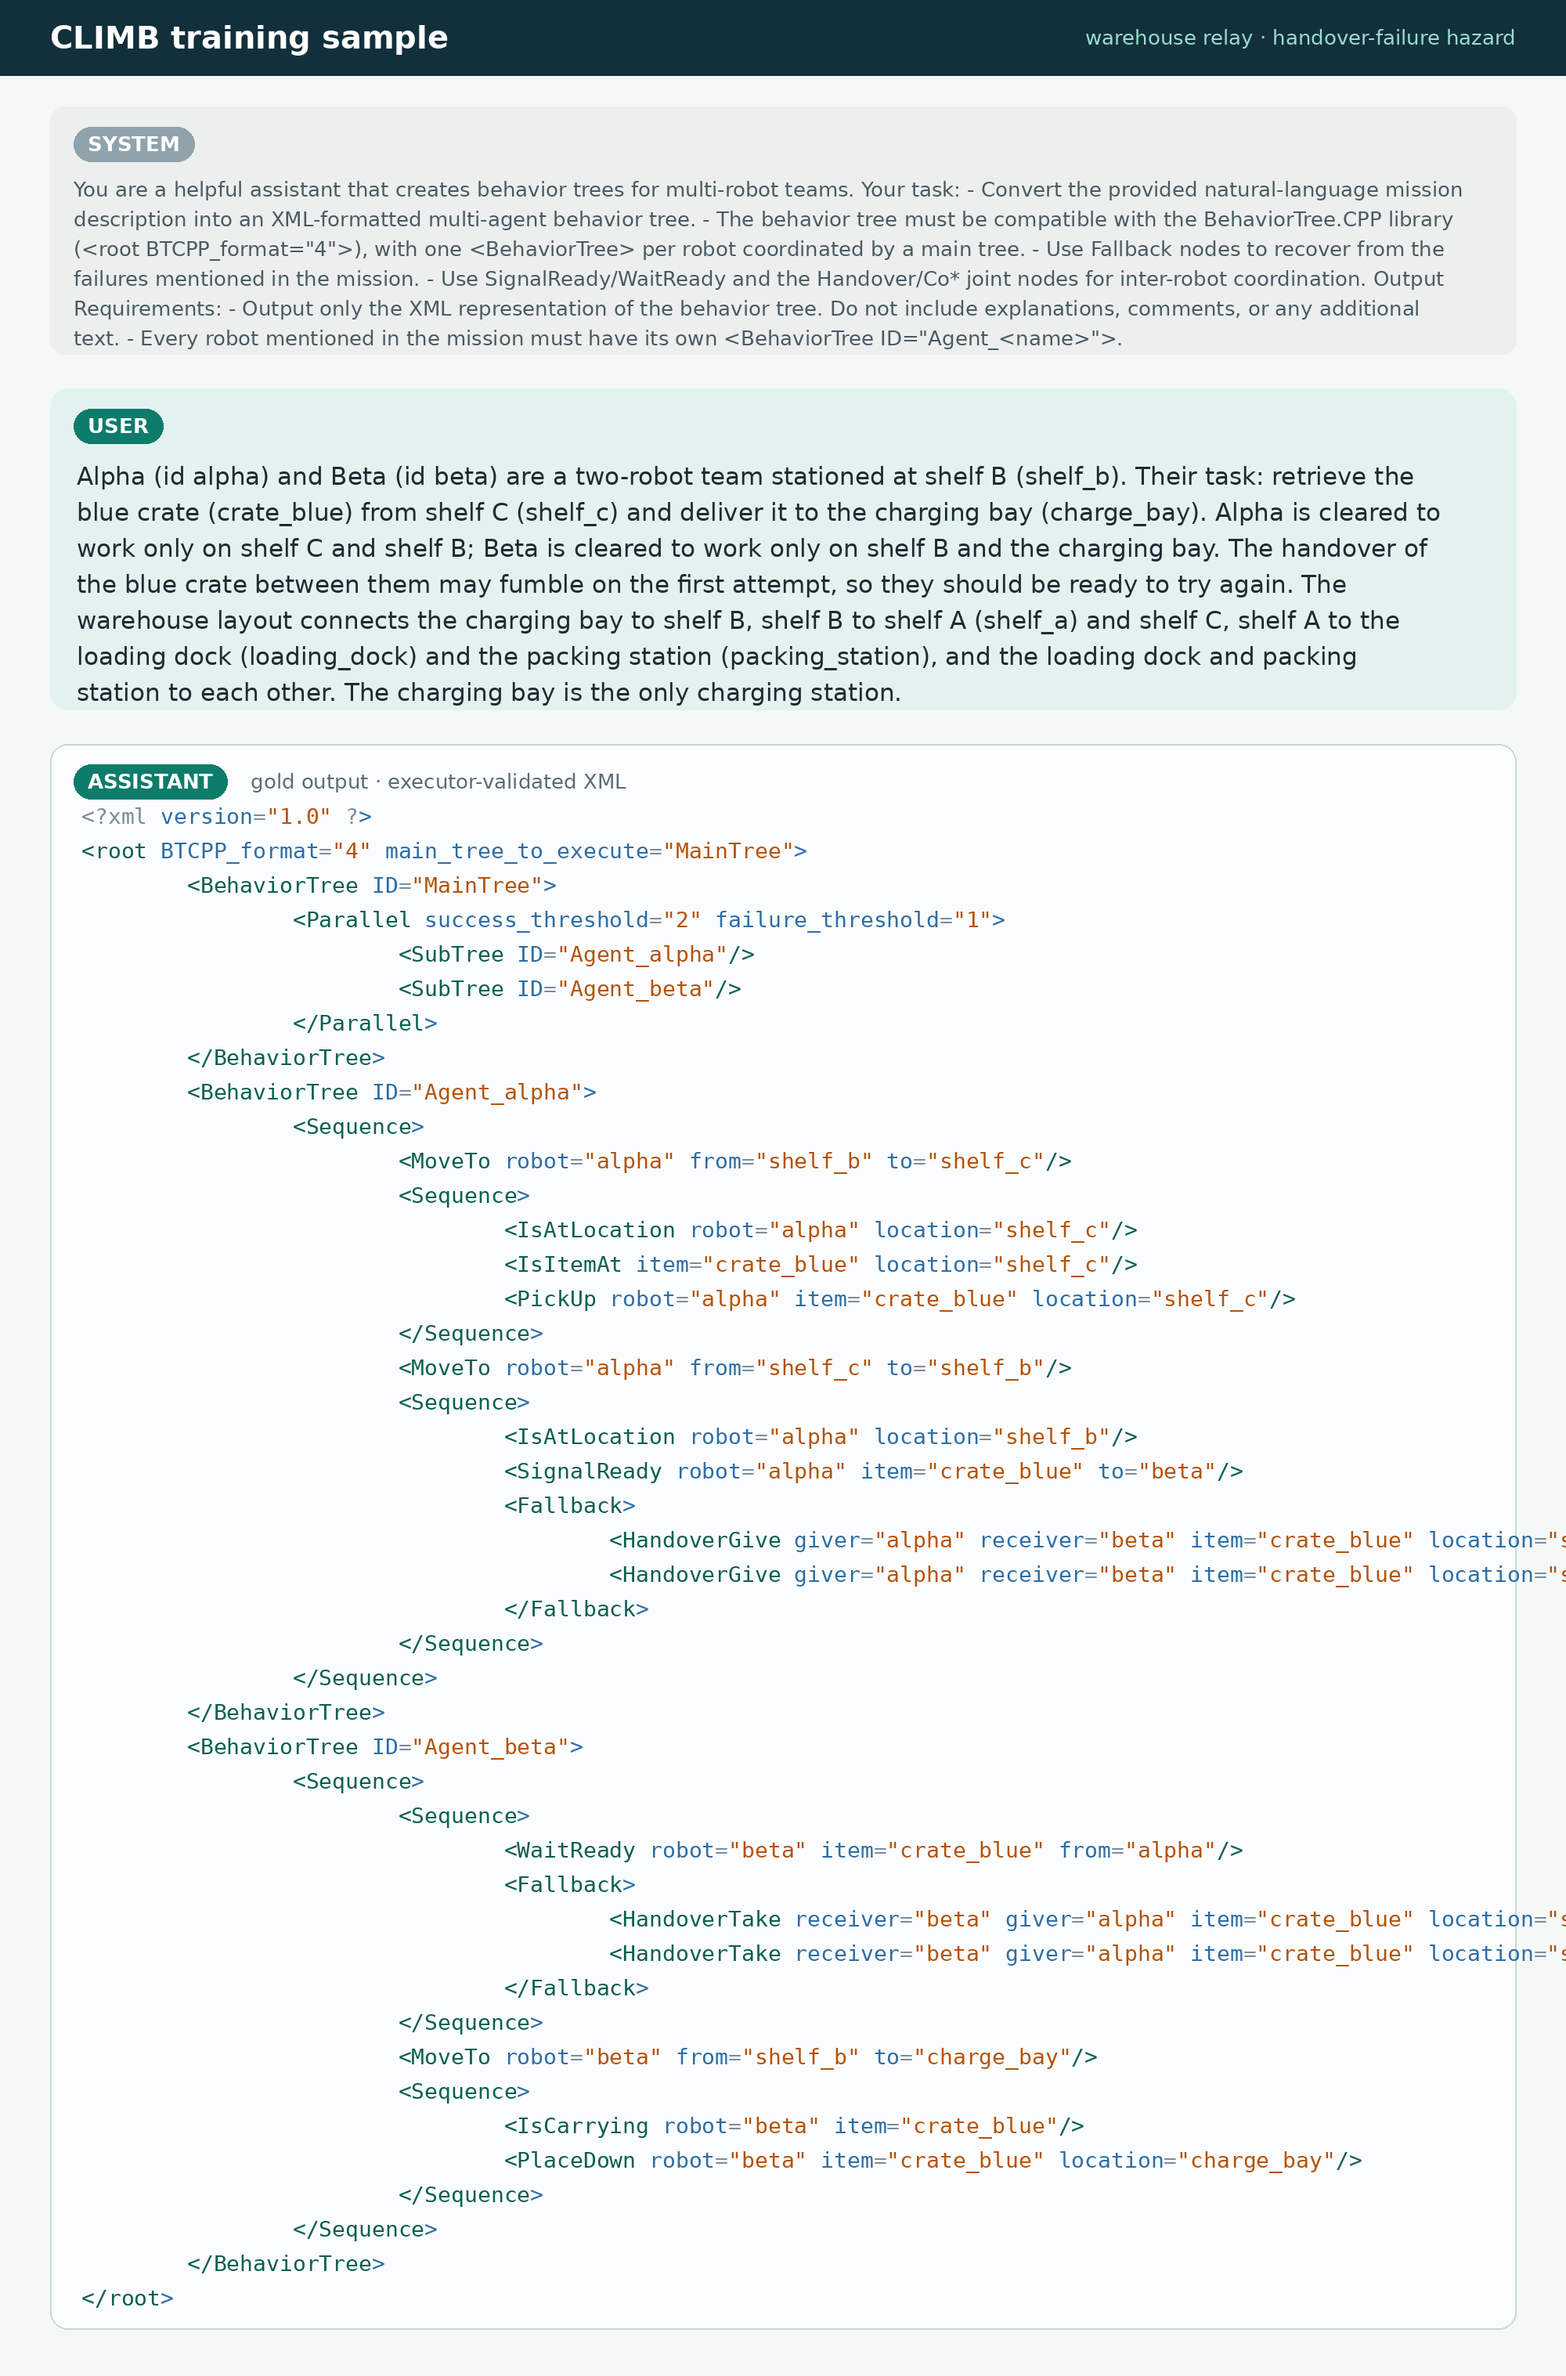
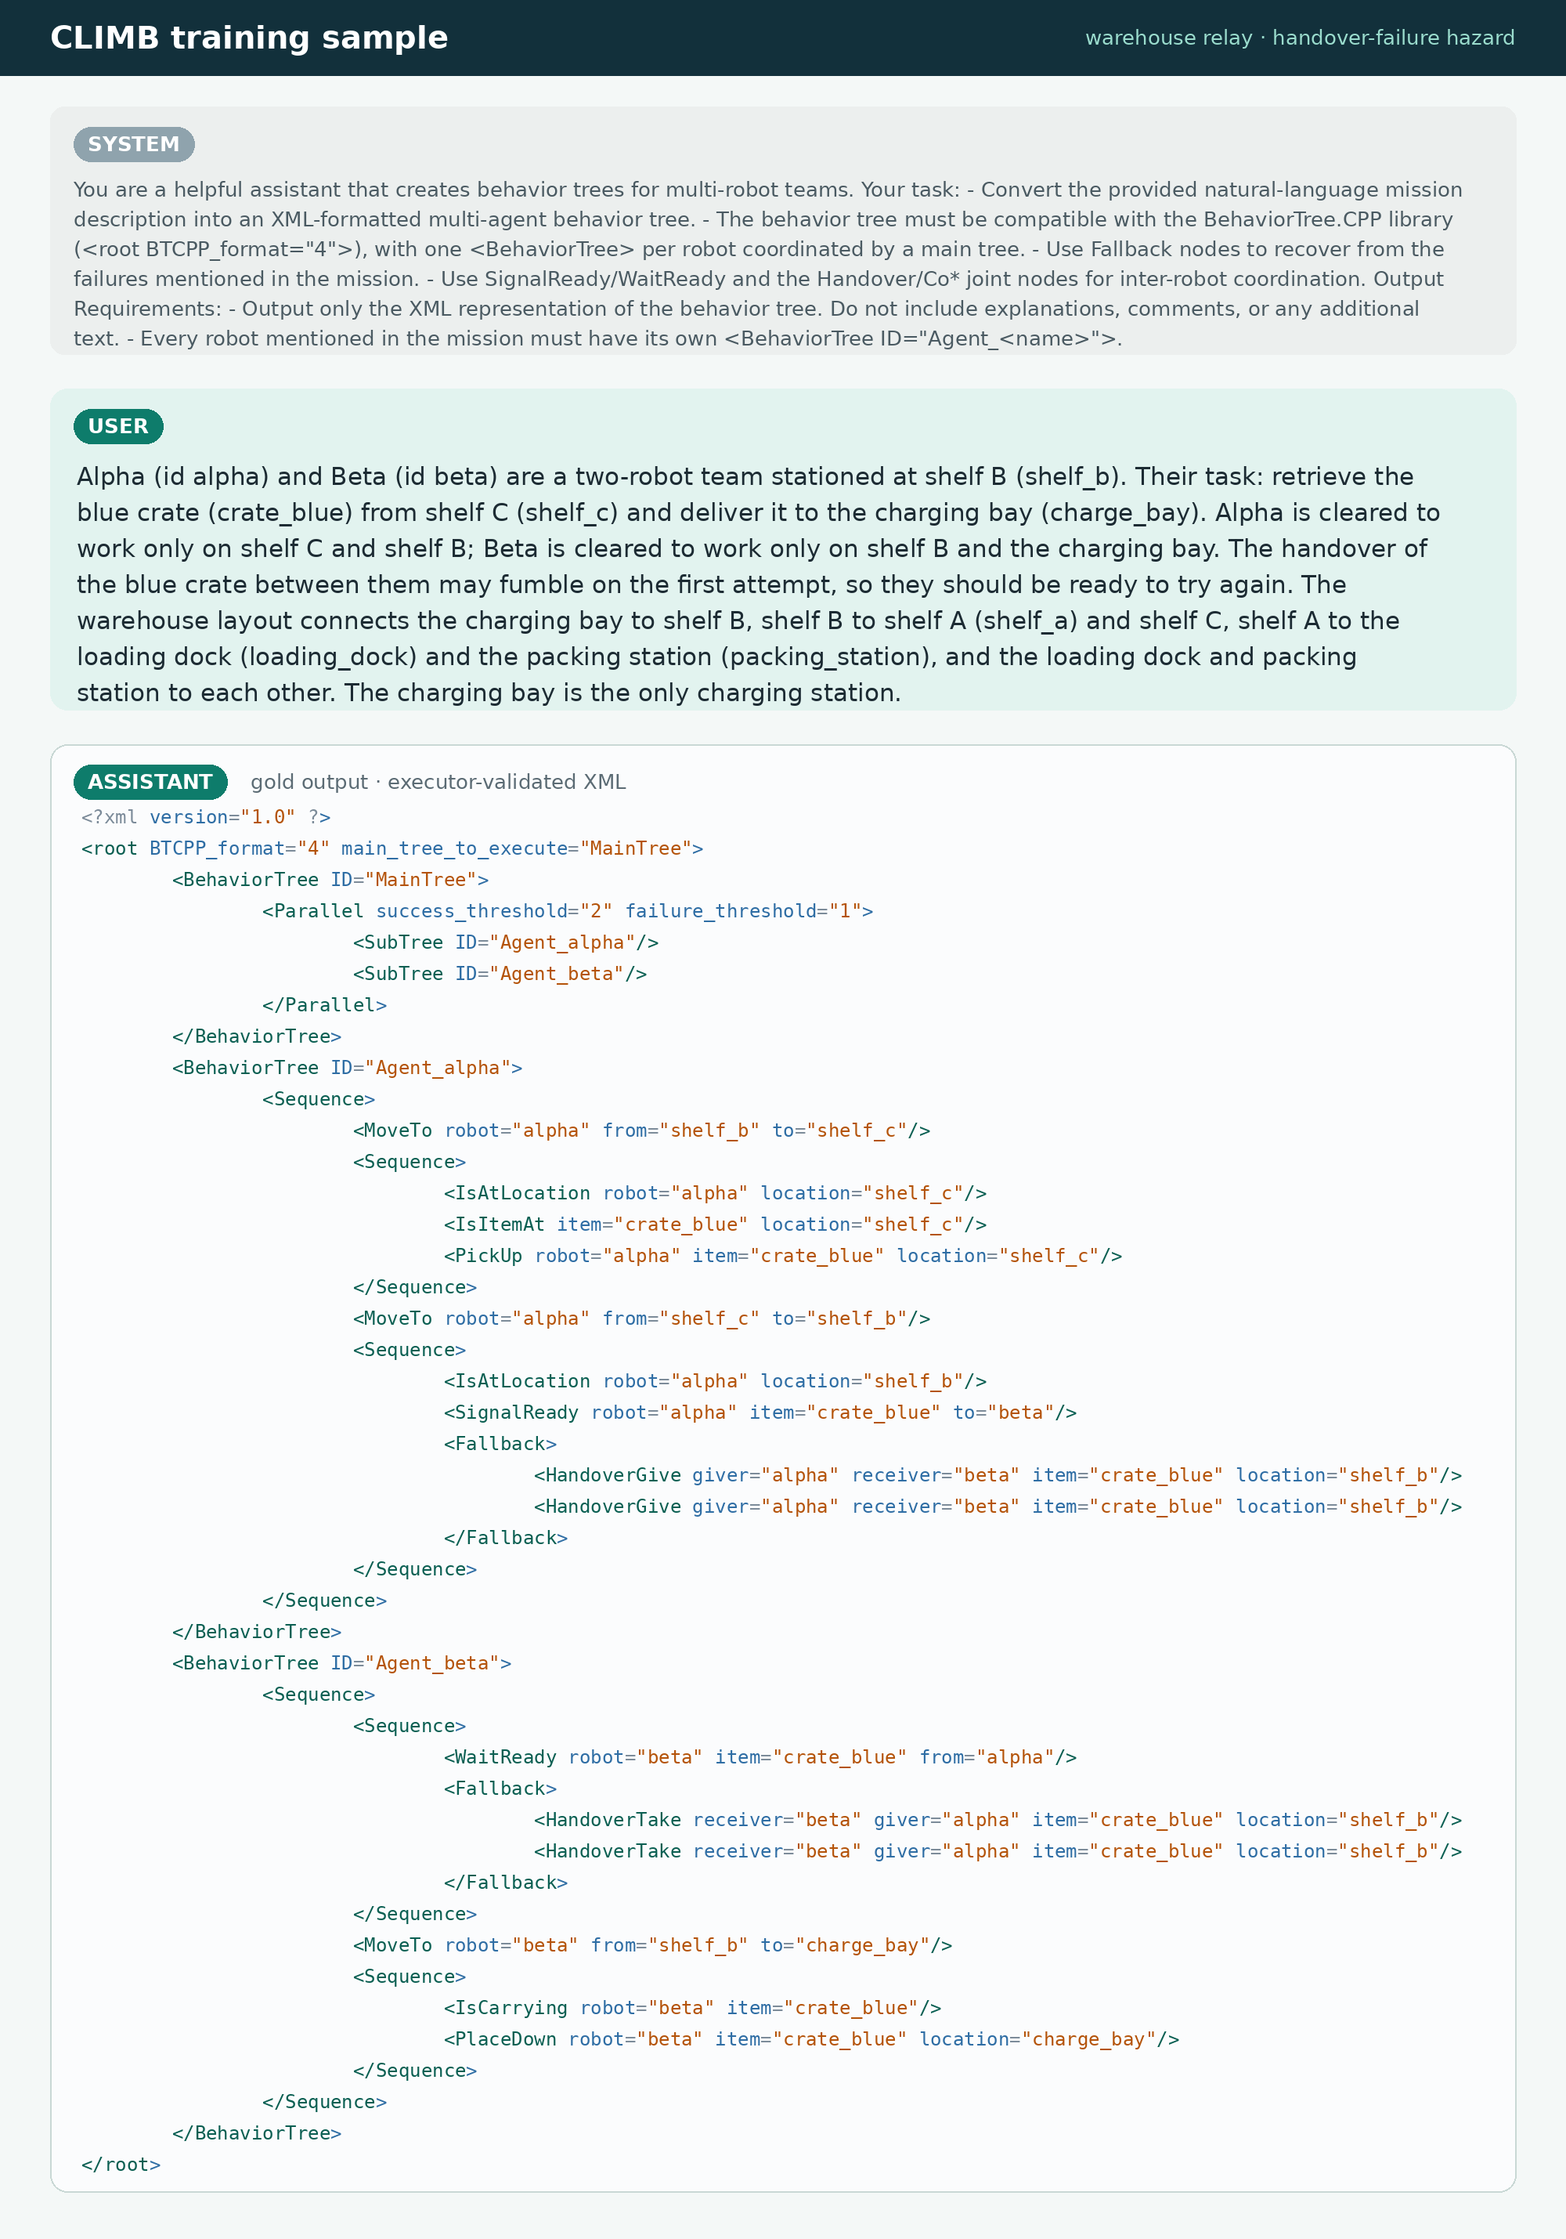
Sample card: pixel-verified fit (auto font size), no right-edge overflow

diff --git a/docs/index.html b/docs/index.html
@@ -185,48 +185,6 @@
   <div class="content has-text-centered">
     <img src="static/images/sample_card.png" alt="Sample record: instruction, input and gold behavior-tree output" style="max-width:92%;border:1px solid var(--line);border-radius:10px">
   </div>
-    &lt;BehaviorTree ID="MainTree"&gt;
-        &lt;Parallel success_threshold="2" failure_threshold="1"&gt;
-            &lt;SubTree ID="Agent_alpha"/&gt;
-            &lt;SubTree ID="Agent_beta"/&gt;
-        &lt;/Parallel&gt;
-    &lt;/BehaviorTree&gt;
-    &lt;BehaviorTree ID="Agent_alpha"&gt;
-        &lt;Sequence&gt;
-            &lt;MoveTo robot="alpha" from="shelf_b" to="shelf_c"/&gt;
-            &lt;Sequence&gt;
-                &lt;IsAtLocation robot="alpha" location="shelf_c"/&gt;
-                &lt;IsItemAt item="crate_blue" location="shelf_c"/&gt;
-                &lt;PickUp robot="alpha" item="crate_blue" location="shelf_c"/&gt;
-            &lt;/Sequence&gt;
-            &lt;MoveTo robot="alpha" from="shelf_c" to="shelf_b"/&gt;
-            &lt;Sequence&gt;
-                &lt;IsAtLocation robot="alpha" location="shelf_b"/&gt;
-                &lt;SignalReady robot="alpha" item="crate_blue" to="beta"/&gt;
-                &lt;Fallback&gt;
-                    &lt;HandoverGive giver="alpha" receiver="beta" item="crate_blue" location="shelf_b"/&gt;
-                    &lt;HandoverGive giver="alpha" receiver="beta" item="crate_blue" location="shelf_b"/&gt;
-                &lt;/Fallback&gt;
-            &lt;/Sequence&gt;
-        &lt;/Sequence&gt;
-    &lt;/BehaviorTree&gt;
-    &lt;BehaviorTree ID="Agent_beta"&gt;
-        &lt;Sequence&gt;
-            &lt;Sequence&gt;
-                &lt;WaitReady robot="beta" item="crate_blue" from="alpha"/&gt;
-                &lt;Fallback&gt;
-                    &lt;HandoverTake receiver="beta" giver="alpha" item="crate_blue" location="shelf_b"/&gt;
-                    &lt;HandoverTake receiver="beta" giver="alpha" item="crate_blue" location="shelf_b"/&gt;
-                &lt;/Fallback&gt;
-            &lt;/Sequence&gt;
-            &lt;MoveTo robot="beta" from="shelf_b" to="charge_bay"/&gt;
-            &lt;Sequence&gt;
-                &lt;IsCarrying robot="beta" item="crate_blue"/&gt;
-                &lt;PlaceDown robot="beta" item="crate_blue" location="charge_bay"/&gt;
-            &lt;/Sequence&gt;
-        &lt;/Sequence&gt;
-    &lt;/BehaviorTree&gt;
-&lt;/root&gt;</pre>
   </div>
 </div></section>
 
